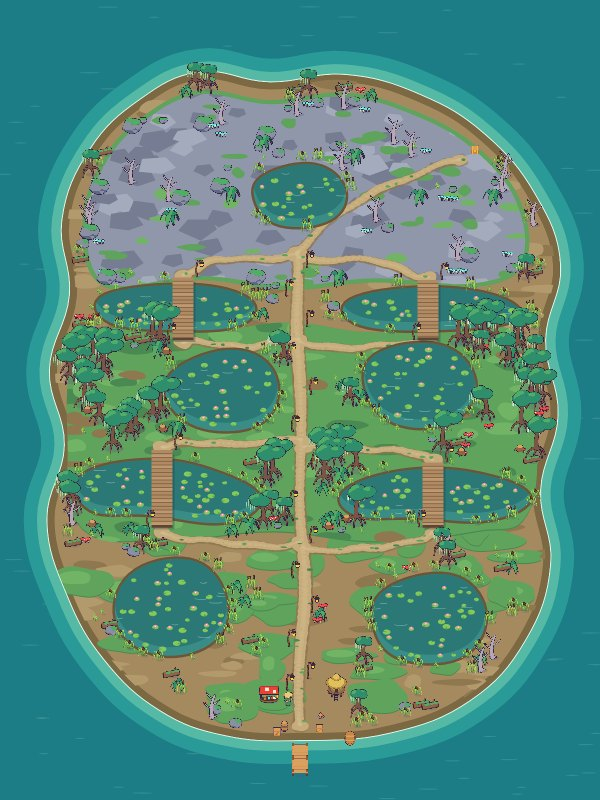
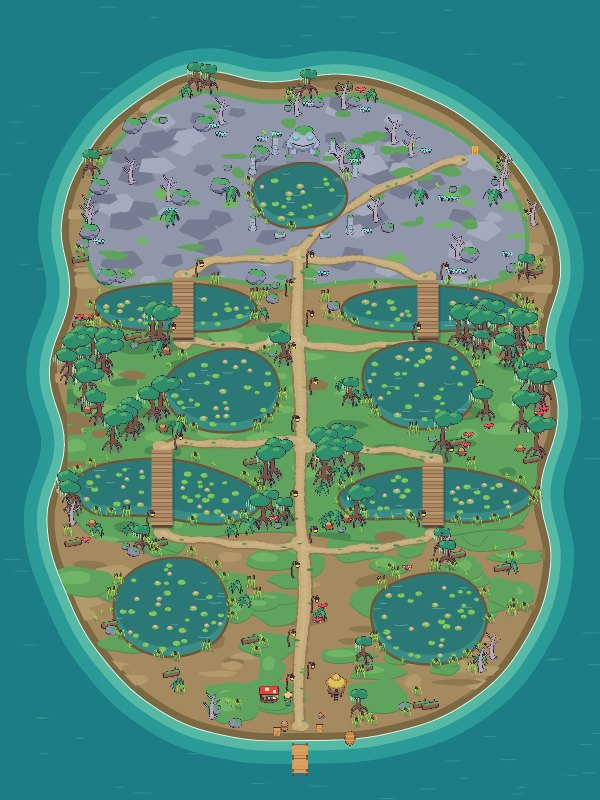
Art Director: the old stones' landmark, a great stone toad among pillars (Leonard, AD)
Robin, 2026-11-20, of the swamp: "Looks good except the roads"; the
roads were redone, so the landmark that waited for his word is made.
blender/swamp.py: idol and three pillars. tools/mire.js stands the toad
north of the ruin's pool with eight pillars round it. out/mire-cay: the
props atlas (32, 1024 by 810) and place.json; the ground is unchanged.

diff --git a/Art Director/tools/mire.js b/Art Director/tools/mire.js
@@ -33,6 +33,7 @@ const L = { w: 2400, h: 3200, px: 0.5, seed: 23,
   // the camp at the landing, the island's safe part (Victor, GD, 2026-11-20: "the camp at the landing has a stall (a trader in a boat or a hut,
   // yours), and it is the safe part, as the town is"): the trader's boat under its awning is the stall, a reed hut on stilts, a fire
   stall: [1076, 2806], campProps: [['stall', 1076, 2806, [130, 44]], ['hut', 1345, 2776, 36], ['fire', 1282, 2868, 11], ['lantern', 1150, 2760, 5]], people: [['trader', 1152, 2818, 'se', 'beside his boat: the shop']],
+  ruin: [['idol', 1212, 622, [136, 76]], ['pillar-a', 1010, 690, 13], ['pillar-b', 1420, 700, 13], ['pillar-a', 1400, 930, 13], ['pillar-b', 1010, 915, 13], ['pillar-c', 1120, 950, 14], ['pillar-a', 1100, 610, 13], ['pillar-b', 1330, 605, 13], ['pillar-c', 1300, 950, 14]],
   zones: { 'hop-toad': [[330, 2180, 780, 580, 6], [1400, 2180, 700, 560, 6]], 'plum-viper': [[300, 1340, 820, 470, 7], [1300, 1340, 820, 500, 7]], 'frill-lizard': [[350, 420, 700, 660, 8], [1400, 420, 700, 680, 8]] },
 };
 const plank = (g, d) => {      // a bridge of planks over water: boards lying east to west, a side, a shadow on the water
@@ -97,7 +98,7 @@ function place() {
   const r = P.rng(L.seed + 100), props = [], solid = [], landP = curve(L.land), woodP = curve(L.wood), stonesP = curve(L.stones, 0.55), pools = L.pools.map(q => curve(q));
   const way = (x, y) => Math.min(...L.paths.map(p => { let d = 1e9; for (let i = 1; i < p.length; i++) d = Math.min(d, seg(p[i - 1], p[i], x, y)); return d; }));
   const wet = (x, y, d = 30) => pools.some(q => inside(q, x, y) || edge(q, x, y) < d), onDeck = (x, y, d = 40) => L.decks.some(k => { const b = box(k.pts); return x > b[0] - d && x < b[0] + b[2] + d && y > b[1] - d && y < b[1] + b[3] + d; });
-  const free = (x, y, d = 50) => inside(landP, x, y) && edge(landP, x, y) > 44 && !wet(x, y) && !onDeck(x, y) && way(x, y) > d && Math.hypot(L.camp[0] - x, L.camp[1] - y) > L.camp[2] && Math.hypot(L.chest[0] - x, L.chest[1] - y) > 90;
+  const free = (x, y, d = 50) => inside(landP, x, y) && edge(landP, x, y) > 44 && !wet(x, y) && !onDeck(x, y) && way(x, y) > d && Math.hypot(L.camp[0] - x, L.camp[1] - y) > L.camp[2] && Math.hypot(L.chest[0] - x, L.chest[1] - y) > 90 && !L.ruin.some(q => Math.hypot(q[1] - x, (q[2] - y) * 1.4) < (q[0] === 'idol' ? 150 : 46));
   const put = (n, x, y, block) => { props.push({ name: n, x: Math.round(x), y: Math.round(y) }); if (block) solid.push({ x: Math.round(x), y: Math.round(y - block * 0.3), r: block }); };
   const near = (x, y, d) => props.some(p => Math.hypot(p.x - x, (p.y - y) * 1.5) < d);
   const clump = (cx, cy, n, spread, pick, ok = () => true) => { let tries = 0; for (let i = 0; i < n && tries < n * 12; tries++) { const a = r() * 6.283, d = Math.sqrt(r()) * spread, x = cx + Math.cos(a) * d, y = cy + Math.sin(a) * d * 0.7; if (!free(x, y) || !ok(x, y) || near(x, y, 34)) continue; const [nm, bl] = pick(); put(nm, x, y, bl); i++; } };
@@ -115,7 +116,7 @@ function place() {
   // the old stones: mossy stones, dead trees, toadstools that glow
   for (const [x, y] of spots(stonesP, 26, 200, (x, y) => inStones(x, y) && way(x, y) > 90)) clump(x, y, 3 + Math.floor(r() * 3), 80, ruin, inStones);
   // reeds round every pool, in runs with gaps, never before a bridge
-  pools.forEach(ip => { const c = box(ip), cx = c[0] + c[2] / 2, cy = c[1] + c[3] / 2; for (let i = 0; i < ip.length; i += 2) { if (r() < 0.42) continue; const [x, y] = ip[i], d = Math.hypot(x - cx, y - cy) || 1, o = 14 + r() * 12, px = x + (x - cx) / d * o, py = y + (y - cy) / d * o; if (!inside(landP, px, py) || onDeck(px, py, 26) || way(px, py) < 34 || near(px, py, 22) || pools.some(q => inside(q, px, py))) continue; put(['reeds-a', 'reeds-b', 'reeds-c', 'reeds-b'][Math.floor(r() * 4)], px, py, 0); } });
+  pools.forEach(ip => { const c = box(ip), cx = c[0] + c[2] / 2, cy = c[1] + c[3] / 2; for (let i = 0; i < ip.length; i += 2) { if (r() < 0.42) continue; const [x, y] = ip[i], d = Math.hypot(x - cx, y - cy) || 1, o = 14 + r() * 12, px = x + (x - cx) / d * o, py = y + (y - cy) / d * o; if (!inside(landP, px, py) || onDeck(px, py, 26) || way(px, py) < 34 || near(px, py, 22) || pools.some(q => inside(q, px, py)) || L.ruin.some(q => Math.hypot(q[1] - px, q[2] - py) < (q[0] === 'idol' ? 150 : 40))) continue; put(['reeds-a', 'reeds-b', 'reeds-c', 'reeds-b'][Math.floor(r() * 4)], px, py, 0); } });
   // lanterns along the way north, on one side then the other
   { const p = L.paths[0]; let k = 0; for (let i = 1; i < p.length; i++) for (const t of [0.25, 0.75]) { const x = p[i - 1][0] + (p[i][0] - p[i - 1][0]) * t + (k++ % 2 ? 40 : -40), y = p[i - 1][1] + (p[i][1] - p[i - 1][1]) * t; if (!wet(x, y, 20) && !onDeck(x, y, 20) && !L.people.some(q => Math.hypot(q[1] - x, q[2] - y) < 70)) put('lantern', x, y, 5); } }      // never one before a person
   // the landing: the dock into the sea, a boat, crates and barrels; lanterns at the bridges' ends
@@ -123,6 +124,8 @@ function place() {
   for (const d of L.decks) { const b = box(d.pts); put('lantern', b[0] - 14, b[1] + b[3] + 6, 5); put('lantern', b[0] + b[2] + 14, b[1] - 4, 5); }
   for (const [n, x, y, f] of L.campProps) { props.push({ name: n, x, y }); if (Array.isArray(f)) solid.push({ x: x - f[0] / 2, y: y - f[1] + 8, w: f[0], h: f[1] }); else solid.push({ x, y: y - 3, r: f }); }
   for (let i = 0; i < L.dockN; i++) put('dock', L.dock[0], L.dock[1] + i * 56 + 56, 0);
+  // the old stones' landmark: a great stone toad looking south over the ruin's pool, broken pillars in a ring round the pool
+  for (const [n, x, y, f] of L.ruin) { props.push({ name: n, x, y }); if (Array.isArray(f)) solid.push({ x: x - f[0] / 2, y: y - f[1] + 8, w: f[0], h: f[1] }); else solid.push({ x, y: y - 3, r: f }); }
   put('chest/closed', L.chest[0], L.chest[1], 12);
   props.sort((a, b) => a.y - b.y || a.x - b.x);
   return { props, solid };

diff --git a/Art Director/blender/swamp.py b/Art Director/blender/swamp.py
@@ -175,11 +175,39 @@ def fire():
         bm = bmesh.new(); cyl(bm, (0, -0.02, 0.2), 0.055, 0.2, r2=0.008, seg=8); st.make(bm, 'flame_in', 'yellow', line=False); return None
     return b
 
+def idol():
+    """the old stones' landmark: a great stone toad on a plinth, moss on its back, its eyes still shining"""
+    def b(st):
+        bm = bmesh.new(); box(bm, (0, 0, 0.11), (1.5, 1.05, 0.22)); box(bm, (0, 0, 0.28), (1.3, 0.9, 0.12)); st.make(bm, 'plinth', 'rockDark', smooth=False)
+        bm = bmesh.new(); sph(bm, (0, 0.06, 0.78), 1.0, (0.6, 0.5, 0.5), seg=24)
+        for s in (-1, 1): sph(bm, (s * 0.3, -0.2, 1.2), 0.2, seg=14); sph(bm, (s * 0.5, 0.18, 0.52), 0.26, (1, 1.2, 0.8), seg=12); sph(bm, (s * 0.42, -0.34, 0.42), 0.14, (1, 1.2, 0.8), seg=10)
+        st.make(bm, 'toad', 'rock', remesh=0.03, soften=3)
+        bm = bmesh.new()
+        for s in (-1, 1): sph(bm, (s * 0.3, -0.37, 1.22), 0.1, seg=12)
+        st.make(bm, 'eyes', 'capGlow')
+        bm = bmesh.new(); pts = [V((u * 0.46, -0.47 + 0.16 * u * u, 0.84 + 0.05 * u * u)) for u in (i / 4 - 1 for i in range(9))]; tube(bm, pts, 0.022, 0.022, seg=6); st.make(bm, 'mouth', 'eye', line=False)
+        bm = bmesh.new(); sph(bm, (0.05, 0.16, 1.24), 0.36, (1.2, 1.0, 0.36), seg=12); sph(bm, (-0.4, 0.2, 0.86), 0.2, (1, 1, 0.5), seg=10); sph(bm, (0.55, -0.3, 0.36), 0.2, (1.2, 1, 0.4), seg=10); sph(bm, (-0.6, -0.38, 0.24), 0.16, (1.2, 1, 0.4), seg=10)
+        st.make(bm, 'moss', 'moss2', remesh=0.03, soften=2)
+        for o in st.objs: o.scale = (1.6, 1.6, 1.6)      # a landmark: three times the Warrior's width
+        return None
+    return b
+def pillar(seed, h, fallen=False):
+    """a broken pillar of the ruin: drums of stone, the top snapped off, moss on it; or one drum lying on its side"""
+    def b(st):
+        rnd = random.Random(seed); bm = bmesh.new()
+        if fallen: cyl(bm, (0, 0, 0.2), 0.2, 0.7, axis=(1, 0.25, 0), seg=14); o = st.make(bm, 'drum', 'rock'); bm = bmesh.new(); sph(bm, (0.05, -0.02, 0.38), 0.18, (1.5, 0.9, 0.4), seg=10); st.make(bm, 'moss', 'moss2', remesh=0.025, soften=2); return None
+        cyl(bm, (0, 0, 0.06), 0.3, 0.12, seg=14); z = 0.12; n = 0
+        while z < h: d = 0.26 + rnd.random() * 0.1; cyl(bm, (0.01 * n, 0, z + d / 2), 0.21, d - 0.015, seg=14); z += d; n += 1
+        st.make(bm, 'pillar', 'rock', smooth=False)
+        bm = bmesh.new(); sph(bm, (0.04, 0, z + 0.01), 0.2, (1.1, 1.0, 0.4), seg=10); sph(bm, (-0.16, -0.12, h * 0.45), 0.12, (0.8, 0.6, 1.2), seg=8); st.make(bm, 'moss', 'moss2', remesh=0.025, soften=2); return None
+    return b
+
 ITEMS = [('mangrove-a', mangrove(3, 2.5, 0.35, 1.05)), ('mangrove-b', mangrove(8, 2.05, -0.4, 0.9, roots=6)), ('mangrove-c', mangrove(12, 1.6, 0.15, 0.72, roots=5)), ('deadtree', deadtree(4, 1.9)),
          ('reeds-a', reeds(1, 6, 1.0, 3)), ('reeds-b', reeds(2, 5, 0.75, 2)), ('reeds-c', reeds(5, 4, 0.55, 0)), ('log', log(1)), ('stump', stump(2)),
          ('shroom-red', shrooms(3, 'capRed')), ('shroom-glow', shrooms(6, 'capGlow', n=4)), ('fern-a', fern(21, 0.42)), ('fern-b', fern(24, 0.55)),
          ('mossrock-a', mossrock(2, 0.46)), ('mossrock-b', mossrock(7, 0.3)), ('mossrock-c', mossrock(9, 0.72)), ('lantern', lantern()),
-         ('stall', stallboat()), ('hut', hut()), ('fire', fire())]
+         ('stall', stallboat()), ('hut', hut()), ('fire', fire()),
+         ('idol', idol()), ('pillar-a', pillar(1, 1.25)), ('pillar-b', pillar(4, 0.7)), ('pillar-c', pillar(2, 0, fallen=True))]
 if __name__ == '__main__':
     a = D.args(); out = os.path.abspath(a[0]) if a else os.path.join(HERE, '..', 'work', 'mire', 'render'); only = a[1].split(',') if len(a) > 1 else None; st = D.Stage(); recs = []
     for name, fn in ITEMS:

diff --git a/Art Director/docs/inventory.md b/Art Director/docs/inventory.md
@@ -69,7 +69,7 @@ which drop is the game's `docs\state\art.md`). Robin has played it once (2026-11
 | Frill lizard | `out\frill-lizard\` | 95 frames, five facings, 1024 by 1048, 4.1 MB; rears and throws its frill wide, then snaps | in the game and on the public page (Victor, GD, 0024efc); design mine; not judged by Robin | blue on the stones' grey is the weakest contrast of the six |
 | Hop toad | `out\hop-toad\` | 110 frames, five facings, 1024 by 924, 3.6 MB; moves in hops; its throat swells, then its tongue lashes 48 units | in the game and on the public page (Victor, GD, 0024efc); design mine; not judged by Robin | with a steady speed it slides on the two frames it is on the ground |
 | Plum viper | `out\plum-viper\` | 95 frames, five facings, 1024 by 950, 3.7 MB; coiled; pulls its head far back, then strikes 48 units; uncoils to slither | in the game and on the public page (Victor, GD, 0024efc); design mine; not judged by Robin | the change from coil to slither is not drawn |
-| Mire Cay, the swamp island | `out\mire-cay\` | the second island, 2400 by 3200 units (Robin, 2026-11-20: "its own theme. A swamp maybe"): one painted ground at half a pixel a unit, nine pools, four plank bridges, 17 swamp props and 8 of Crab Cay's in one atlas, the layout with `pools`, `decks`, `grounds` and zones for the toad, the viper and the lizard | delivered twice on 2026-11-20 (the second with the camp: the trader's boat as the stall, the trader, a hut on stilts, a fire); the size, the levels and a stall agreed with Victor, GD; in the game and on the public page (the first drop with 0024efc); shown to Robin; the look not judged | a landmark for the old stones (a stone toad, pillars); lanterns do not glow |
+| Mire Cay, the swamp island | `out\mire-cay\` | the second island, 2400 by 3200 units (Robin, 2026-11-20: "its own theme. A swamp maybe"): one painted ground at half a pixel a unit, nine pools, four plank bridges, 17 swamp props and 8 of Crab Cay's in one atlas, the layout with `pools`, `decks`, `grounds` and zones for the toad, the viper and the lizard | delivered twice on 2026-11-20 (the second with the camp: the trader's boat as the stall, the trader, a hut on stilts, a fire); the size, the levels and a stall agreed with Victor, GD; in the game and on the public page (the first drop with 0024efc); shown to Robin; the look not judged | the landmark (a great stone toad, eight pillars) delivered in the fourth drop; lanterns do not glow; the toad does nothing yet |
 | The chest's burst and the big chest | `out\chest-burst\` | ten pictures of light for a chest that opens (glow, rays, beam, ring, star, mote, a coin turning), white for the game to colour by rarity; and `chest.png`, the chest built richer at three times the field's pixels for its own screen (Robin, 2026-11-20: "a big pop up screen and the game pauses") | the light is in the game on the chest's screen (Victor, GD); the big chest delivered 2026-11-20, not in the game; not judged by Robin | his word on the colours and the timings; a lid that flies off would be new chest pictures |
 | Coconut crab | `out\coconut-crab\` | level 5, 66 frames, three facings | in the game; design mine | three facings only, to save memory |
 | The island | `out\island\` | the ground as one picture (1 px a unit), 23 props, the chest, `place.json` | in the game; layout mine | the grass is plain between props; the sea does not move |

diff --git a/Art Director/docs/log.md b/Art Director/docs/log.md
@@ -47,3 +47,4 @@ when they matter), what was made and where (`out\<name>\`, the tool), what is wa
 - 2026-11-20: Victor, GD: the six monsters and Mire Cay are in the game and on the public page (his commit 0024efc), "Everything drew right the first time"; the gull and its folder are out of the game. On his message: Crab Cay's `zones` name the monsters that live there now (sand-crab, wharf-rat, bristle-piglet, palm-monkey, coconut-crab; the boxes unchanged); the piglet's `charge` gallop is redrawn with a longer stride and 42 ms a frame, so it is drawn for 320 units a second where his rule runs it at 330; the chart has Crab Cay with its town, Mire Cay painted in, a way between them, `pin/swamp`, and the old harbour as an unknown island (tools/chart.js, tools/chart-look.js; `chart-places.json` names its places `crab-cay` and `mire-cay`, with `island-1` kept as the old name). Counted Crab Cay again with five monsters, the bigger glass and the big chest: 58.5 MB, 2.5 over his 56; told him. Leonard, AD.
 - 2026-11-20: Victor, GD: the three follow-ups are in the game and live (his 58f7d6f): zones read by name, the piglet's gallop on its rush, the chart with both islands, pins and the dotted way. The toad stands outside 0.08 to 0.38 s of its 0.48 s hop and travels only between, 1.6 times faster: checked against the atlas, frame 1 is 0 to 80 ms, frames 2 to 5 are 80 to 380, frame 6 is 380 to 480, so his numbers fall on the frames. Crab Cay's budget is 60 MB now (his, in art-demands.md); my count is 58.5. Nothing more asked; the swamp's landmark waits for Robin's word on its look. Leonard, AD.
 - 2026-11-20: Robin, in my chat, of the swamp: "Looks good except the roads. They clip over each other and doesnt look natural. I think you can get a lot of inapiration from my survival game project". Read the Survival game's village ways (C:/dev/SG/Game Developer/src/village.js: ways as dabs that wander, wider where more feet go, joining on shared ground, a worn apron where they end; nothing copied). tools/mire.js now lays every way in three passes together (rims, earth, pale middles) as close dabs with a wander, moss creeping in and a worn patch at each end; the first try had the dabs too far apart and read as beads. out/mire-cay delivered a third time: only ground.png changed. Crab Cay's ways are still drawn the old way. Leonard, AD.
+- 2026-11-20: Victor, GD: the repainted ways are in the game (his 07df861); go on with the landmark. Made it: blender/swamp.py has `idol` (a great stone toad on a plinth, mossy, its eyes the glowing toadstools' colour) and three pillars; tools/mire.js stands the toad north of the ruin's pool with eight pillars round the pool and keeps reeds and clumps off them. The first toad was the Warrior's size and hidden by reeds: made 1.6 times bigger, the reeds cleared. out/mire-cay a fourth time: the atlas (32 props, 1024 by 810) and place.json. Leonard, AD.

diff --git a/Art Director/out/mire-cay/NOTES.md b/Art Director/out/mire-cay/NOTES.md
@@ -27,6 +27,12 @@ paler down the middle, a ragged rim with no line, moss creeping in, and a worn p
 laid together, so none lies on another. **Only `ground.png` changed** (and the look pictures); `paths` in
 `place.json` is the same list, and the ways still run through its points.
 
+**The fourth drop, 2026-11-20: the landmark.** Robin said the swamp "Looks good", so the old stones have their
+landmark: a great stone toad on a plinth, moss on its head, its eyes still shining, looking south over the ruin's
+pool, with eight broken pillars in a ring round the pool. New props: `idol`, `pillar-a`, `pillar-b`, `pillar-c`.
+The atlas is 1024 by 810 with 32 props (3.2 MB); 436 props stand, 194 things are in the way (two boxes now: the stall
+and the toad). `ground.png` did not change. The toad stands at 1212, 622; a few reeds round it are gone.
+
 ## The numbers
 
 | File | What | Size | Decoded | On disk |
@@ -64,7 +70,7 @@ Copy the folder. It is Crab Cay's form (`out\crab-cay\NOTES.md`), with **one new
 ## Open
 
 - **The look:** Robin, 2026-11-20: "Looks good except the roads." The roads are redone (above) and shown to him again.
-- **A landmark.** The old stones want broken pillars and one great thing (I would make a mossy stone toad). Not made.
+- The stone toad only stands there. If the rules want it to be something (a door, a boss's seat, a place to pray), say.
 - The camp has one person. More of them, and a second hut, when tasks come here.
 - The stall, the hut and the fire take the round shadow; the fire does not flicker.
 - The lanterns do not glow and the water does not move. Fireflies would be the chest's `mote`, tinted yellow.
